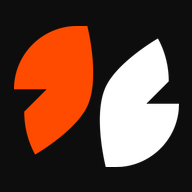
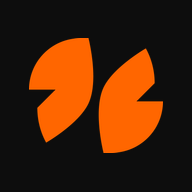
fix(brand): the mark is one orange on a transparent ground, not orange and white
The previous commit cut the icon from `public/LOGOS/element.png`, which is
the ON-DARK lockup: its left leaf is #ff4b00 and its right leaf is #ffffff.
On a light tab strip that is half a mark. Compositing onto the dark canvas
covered it up, and the reasoning for that ground was sound in isolation and
was reasoning about the wrong artwork.

The artwork is both leaves in one orange on a transparent ground. Its bytes
have still not reached this machine, so the source was rebuilt without
drawing anything: `favicon-dark.png` is the SAME artwork already committed
here as one solid shape, so its alpha channel is the exact outline of both
leaves, and filling that outline with `--acc` gives the mark as sent.
#ff6600 is the token in `packages/shared/tokens.css` and the value named as
the primary brand colour, not a sample of a picture. It is committed as
`public/brand/icon-source.png`; replacing that file and rerunning
`scripts/gen-favicons.mjs` is the whole remedy if any detail differs.

With one colour, the ground argument evaporates: an orange mark is legible
on a light tab strip and a dark one alike, so the tab icons are transparent
and only the surfaces an operating system composites keep an opaque ground.
iOS flattens a touch icon onto black and an Android launcher crops a
maskable tile to its own shape; both get `--canvas` in dark.

The guard that would have caught the first version counts white pixels, and
[…]

diff --git a/apps/web/src/app/favicon-assets.test.ts b/apps/web/src/app/favicon-assets.test.ts
@@ -19,9 +19,14 @@ import { describe, expect, test } from 'vitest'
  *
  * ── WHAT IT CANNOT SEE ──────────────────────────────────────────────────────
  *  · WHETHER THE ICON IS THE MARK. It reads dimensions, alpha and a colour
- *    histogram. A plain orange square on a dark ground would pass every
- *    assertion in this file. Only a person looking at it can say the artwork is
- *    the Sahoda element, and only the founder can say it is the artwork he sent.
+ *    histogram. A shapeless orange blob with the right proportions of clear and
+ *    coloured pixels would pass every assertion here. Only a person looking at
+ *    it can say the artwork is the Sahoda element, and only the founder can say
+ *    it is the artwork he sent. The file he attached never reached the machine
+ *    this was built on, so the source was reconstructed by filling the alpha
+ *    channel of `favicon-dark.png` — the same artwork already committed here, as
+ *    one solid shape — with `--acc`. Nothing in this file can tell that apart
+ *    from his own bytes.
  *  · Whether Next actually emits the link tags. That is a build-time behaviour
  *    of the file conventions, not a property of the bytes; `layout.test.tsx`
  *    covers the half of it that lives in source, and the rendered `<head>` was
@@ -35,6 +40,21 @@ import { describe, expect, test } from 'vitest'
  */
 const APP = dirname(fileURLToPath(import.meta.url))
 const PUBLIC = join(APP, '..', '..', 'public', 'brand')
+
+/** The outputs that get composited by an operating system, so must be opaque. */
+const OPAQUE: ReadonlyArray<readonly [string]> = [
+  [join(APP, 'apple-icon.png')],
+  [join(PUBLIC, 'icon-192.png')],
+  [join(PUBLIC, 'icon-512.png')],
+]
+
+/** How many pixels of a file are not fully opaque. */
+async function seeThrough(path: string): Promise<number> {
+  const { data, info } = await sharp(path).ensureAlpha().raw().toBuffer({ resolveWithObject: true })
+  let count = 0
+  for (let i = 3; i < data.length; i += info.channels) if ((data[i] ?? 255) < 255) count++
+  return count
+}
 
 /** Every square output, and the side it must have. */
 const SQUARES: ReadonlyArray<readonly [string, number]> = [
@@ -54,38 +74,65 @@ describe('the PNG icons', () => {
     expect(meta.height).toBe(meta.width)
   })
 
-  test('the Apple touch icon is fully opaque, because iOS composites to black', async () => {
-    // An alpha channel here is not cosmetic. iOS flattens a touch icon onto
-    // BLACK, so a transparent ground would swallow the dark half of a two-tone
-    // mark and leave one leaf floating. `gen-favicons.mjs` composites onto the
-    // dark canvas token for exactly this reason; this asserts it stayed done.
-    const { data, info } = await sharp(join(APP, 'apple-icon.png'))
-      .raw()
-      .toBuffer({ resolveWithObject: true })
-    if (info.channels < 4) return
-    let seeThrough = 0
-    for (let i = 3; i < data.length; i += info.channels) if ((data[i] ?? 255) < 255) seeThrough++
-    expect(seeThrough).toBe(0)
+  test.each(OPAQUE)('%s has no see-through pixel, because it gets composited', async (path) => {
+    // Not cosmetic. iOS flattens a touch icon onto BLACK and an Android launcher
+    // crops a maskable tile to its own shape; both need real pixels behind the
+    // mark. `gen-favicons.mjs` composites these onto the dark canvas token for
+    // exactly that reason, and this asserts it stayed done.
+    expect(await seeThrough(path)).toBe(0)
   })
 
-  test('carries the brand orange from the artwork, not a repaint of it', async () => {
-    // The source is `public/LOGOS/element.png` and its orange is #ff4b00. This
-    // is NOT `--acc` (#ff6600): the two differ, and the artwork's own value is
-    // the one that ships, because the instruction was to use the mark as drawn
-    // rather than to recolour it to the interface token. If a future change
-    // repaints the icon to the accent, this fails and asks for that to be a
-    // decision rather than a side effect.
+  test('the tab icon keeps its transparent ground, rather than a box', async () => {
+    // THE REGRESSION THIS PINS, and it is the one that shipped once already.
+    // A tab strip is light in one theme and dark in the other. An orange mark is
+    // legible on both, so a solid ground here solves nothing and draws a square
+    // around the mark on every tab. It became possible only once the mark was one
+    // colour: while the right leaf was white, transparency hid half of it on a
+    // light strip, and that is what a ground was covering up.
+    const total = 512 * 512
+    const clear = await seeThrough(join(APP, 'icon.png'))
+    expect(clear / total).toBeGreaterThan(0.3)
+  })
+
+  test('is one colour, with no second leaf left white', async () => {
+    // THE DEFECT THIS FILE WAS WRITTEN AFTER. The first version of this icon was
+    // cut from `public/LOGOS/element.png`, which is the on-dark lockup: its left
+    // leaf is orange and its RIGHT LEAF IS WHITE. On a light tab strip half the
+    // mark simply was not there. Counting white pixels is what tells those two
+    // artworks apart, and nothing else in this file would notice the difference.
+    const { data, info } = await sharp(join(APP, 'icon.png'))
+      .raw()
+      .toBuffer({ resolveWithObject: true })
+    let white = 0
+    for (let i = 0; i < data.length; i += info.channels) {
+      const a = info.channels === 4 ? (data[i + 3] ?? 255) : 255
+      if (a > 200 && (data[i] ?? 0) > 230 && (data[i + 1] ?? 0) > 230 && (data[i + 2] ?? 0) > 230) {
+        white++
+      }
+    }
+    // A handful of pale anti-aliased pixels is fine; a whole leaf is 20% of the
+    // square, so this bites long before it could be argued about.
+    expect(white).toBeLessThan(512 * 512 * 0.01)
+  })
+
+  test('carries the brand orange, and it is the token rather than a sampled guess', async () => {
+    // #ff6600 is `--acc` in packages/shared/tokens.css and the value the founder
+    // named as the primary brand colour. The FIRST cut of this icon used #ff4b00,
+    // the orange inside `public/LOGOS/element.png`, which is a different colour
+    // and was the wrong artwork. If a future change repaints the icon again, this
+    // fails and asks for that to be a decision rather than a side effect.
     const { data, info } = await sharp(join(APP, 'icon.png'))
       .raw()
       .toBuffer({ resolveWithObject: true })
     let orange = 0
     for (let i = 0; i < data.length; i += info.channels) {
+      const a = info.channels === 4 ? (data[i + 3] ?? 255) : 255
       const r = data[i] ?? 0
       const g = data[i + 1] ?? 0
       const b = data[i + 2] ?? 0
-      if (r > 240 && g > 55 && g < 95 && b < 20) orange++
+      if (a > 200 && r > 250 && g > 92 && g < 112 && b < 12) orange++
     }
-    expect(orange).toBeGreaterThan(512 * 512 * 0.1)
+    expect(orange).toBeGreaterThan(512 * 512 * 0.3)
   })
 })
 

diff --git a/apps/web/src/app/layout.tsx b/apps/web/src/app/layout.tsx
@@ -89,8 +89,9 @@ export const metadata: Metadata = {
    *     home-screen tile all draw into a SQUARE, so all four were squashing the
    *     mark by 15%, and each was a browser's own downscale of a 594px image at
    *     the 16px it is actually read at.
-   *   - Neither file is the brand mark. They are black-and-white silhouettes;
-   *     `public/LOGOS/element.png` is the Sahoda element in the brand orange.
+   *   - Neither file is the brand mark. They are black-and-white silhouettes.
+   *     `public/brand/icon-source.png` is the Sahoda element in the brand
+   *     orange, on a transparent ground, and it is what every size is cut from.
    *   - There was no Apple touch icon at all, so an iPhone home screen fell back
    *     to a snapshot of the page.
    *

diff --git a/LEARNINGS.md b/LEARNINGS.md
@@ -230,4 +230,4 @@ main
 
 2026-08-28 · apps/web/src/lib/privacy (girija, wt-girija3 on claude/lead-research-kickoff-dw8slw) — **A skip condition is a claim about the environment, and this one silently stopped being true.** `export-drift.test.ts` decided whether it could run by asking whether `SUPABASE_DB_URL` was set, and its own header explained why: "the sandbox has no `.env`". That was correct until 2026-08-24, when `scripts/cloud-setup.sh` began writing a real `.env` into the cloud sandbox. From that date the URL was SET in an environment whose DNS cannot resolve the host it names, so the file was red on every sandbox run with `getaddrinfo ENOTFOUND`, twice, on trees with no defect in them. **The condition never changed; the world it described did**, and the comment justifying it was still there, still persuasive, and by then false. The question is now the narrow one: did anything ANSWER at that address. **The danger in the fix is the fix**, because a broader excuse would hide the defect this file exists to catch, so `db-reachability.ts` classifies only socket-level connect failures and only during connect — a wrong password (`28P01`), a denied grant (`42501`) and any query error all stay red, and `ECONNRESET` is excluded by name because a real server that rejects a TLS handshake resets the socket too. The classifier carries its own guard that runs on every gate with no credentials, and **half of its tests assert what must NOT be excused**, which are the ones worth having. Four mutations, each shown red: dropping `ENOTFOUND` returns export-drift to exactly its original two failures, adding `28P01` to the set breaks the wrong-password test, removing the cause-depth bound raises `RangeError: Maximum call stack size exceeded` on a self-referential cause, and dropping the `AggregateError` walk loses the dual-stack `ECONNREFUSED` that Node reports on the members rather than the wrapper. Proven end to end both ways against real sockets: a listener that accepts and hangs up stays RED with `Connection terminated unexpectedly`, and a closed port SKIPS with the host and syscall in the note. **The skip is loud** — it names the host, because "database unavailable" sends somebody hunting and `db.…supabase.co (ENOTFOUND)` sends them to the fix. **No migration, no contract, no price, and nothing in the product changed.**
 
-2026-08-30 · apps/web/src/app (jiban, wt-jiban3) — **The favicon existed, passed an existence check, and was the wrong shape in every place a browser draws it.** `favicon-dark.png` and `favicon-white.png` are 594x508, so a tab strip, a bookmark row, a pinned tab and a home-screen tile were each squashing the mark by 15% and downscaling a 594px image to the 16px it is actually read at; there was no Apple touch icon at all, and `layout.tsx` recorded that absence as a deliberate hold because pointing iOS at a 594x508 file hands it exactly that distortion. The hold was right and the answer was to produce a real square. **The icon is now cut from the brand element itself**, `public/LOGOS/element.png`, by `scripts/gen-favicons.mjs`, which only pads to square and resizes with Lanczos3: 16/32/48 hand-packed into the `.ico` because sharp cannot write one, 180 for Apple, 192 and 512 for the manifest. **The one judgement in it is the ground, and it is measured**: the element is two-tone, `#ff4b00` on the left leaf and `#ffffff` on the right, so on a light tab strip half the mark would be invisible, and `public/LOGOS/` is the on-dark set. It sits on `--canvas` in dark (`#0d0d0d`), which iOS needs anyway since it composites transparency to black. **The artwork's orange is NOT `--acc`** (`#ff4b00` against `#ff6600`) and a guard now fails if somebody repaints the icon to the interface token, because that has to be a decision rather than a side effect. **`metadata.icons` was deleted rather than rewritten**: the file conventions emit link tags AND a metadata array emits link tags, and two declarations of one icon is how the dark variant would quietly win over the light one again. `layout.test.tsx`'s two scheme tests were retargeted onto that stronger claim, never deleted. **The manifest is a static `public/site.webmanifest`, not `app/manifest.ts`**, because the route convention adds `/manifest.webmanifest/route` to the build and `js-budget` correctly refuses a route with no budget: recording a 590 kB line for a document that ships no client JavaScript would put a number in that file which means nothing. `display` and `theme_color` are omitted on purpose, so no install prompt appears that nobody decided to ship. **Ten mutations, each shown red and restored**: metadata icons reinstated, the icon squashed back to 594x508, the Apple icon given a transparent ground, the `.ico` losing its 48px member, an `.ico` directory entry pointing past the end of the file, the Apple icon deleted, the mark repainted to `--acc`, and three on the manifest (a lying `sizes`, a `src` that 404s, and `maskable` without `any`). **The bytes were never checked by the uploaded file**, because the artwork attached to the request never reached this machine: `~/.claude/attach/` is empty and no image file on disk is newer than the session. The source is the repo's own committed brand element, and swapping it is one constant in the script plus one command.
+2026-08-30 · apps/web/src/app (jiban, wt-jiban3) — **The favicon existed, passed an existence check, and was the wrong shape in every place a browser draws it.** `favicon-dark.png` and `favicon-white.png` are 594x508, so a tab strip, a bookmark row, a pinned tab and a home-screen tile were each squashing the mark by 15% and downscaling a 594px image to the 16px it is actually read at; there was no Apple touch icon at all, and `layout.tsx` recorded that absence as a deliberate hold because pointing iOS at a 594x508 file hands it exactly that distortion. The hold was right and the answer was to produce a real square. `scripts/gen-favicons.mjs` now cuts every size from one source with nothing but a pad-to-square and a Lanczos3 resize: 16/32/48 hand-packed into the `.ico` because sharp cannot write one, 180 for Apple, 192 and 512 for the manifest. **The first cut of it was wrong, and the way it was wrong is the lesson.** The founder attached the artwork and the bytes never reached the machine — `~/.claude/attach/` empty, no image on disk newer than the session — so the nearest committed thing was used instead, `public/LOGOS/element.png`. That file is the ON-DARK lockup: its left leaf is `#ff4b00` and **its right leaf is `#ffffff`**, which on a light tab strip is half a mark. That was covered up rather than noticed, by compositing onto the dark canvas token, and the reasoning for the ground was sound in isolation and was reasoning about the wrong artwork. The founder resent the image, both leaves orange, and the whole ground argument evaporated: one orange mark is legible on a light strip and a dark one, so the tab icons are TRANSPARENT and only the surfaces an operating system composites — Apple, and the maskable Android tiles — keep an opaque ground. **The source was rebuilt without drawing anything**: `favicon-dark.png` is the same artwork as one solid shape, so its alpha channel is the exact outline of both leaves, and filling that outline with `--acc` gives the mark he sent. `#ff6600` is the token and the value he named himself, not a sample of a picture. **The guard that would have caught the first version counts white pixels**, and it did not exist until the second version was written — the original suite checked squareness, opacity, sizes and an orange histogram, and every one of those passed on an icon with a missing leaf. **Sixteen mutations across the two rounds, each shown red and restored**: metadata icons reinstated, the icon squashed back to 594x508, a solid box put back behind the tab icon, the two-tone artwork returning, the mark repainted to `#ff4b00` and to `--acc`, transparent grounds on Apple and on a maskable tile, the Apple icon deleted, the `.ico` losing its 48px member, an `.ico` entry pointing past the end of the file, and three on the manifest. **`metadata.icons` was deleted rather than rewritten**: the file conventions emit link tags and a metadata array emits link tags too, and two declarations of one icon is how the dark variant would quietly win over the light one again; `layout.test.tsx`'s two scheme tests were retargeted onto that stronger claim, never deleted. **The manifest is a static file, not `app/manifest.ts`**, because the route convention adds `/manifest.webmanifest/route` and `js-budget` correctly refuses a route with no budget: a 590 kB line for a document that ships no client JavaScript would put a number in that file which means nothing. `display` and `theme_color` are omitted so no install prompt appears that nobody decided to ship.
